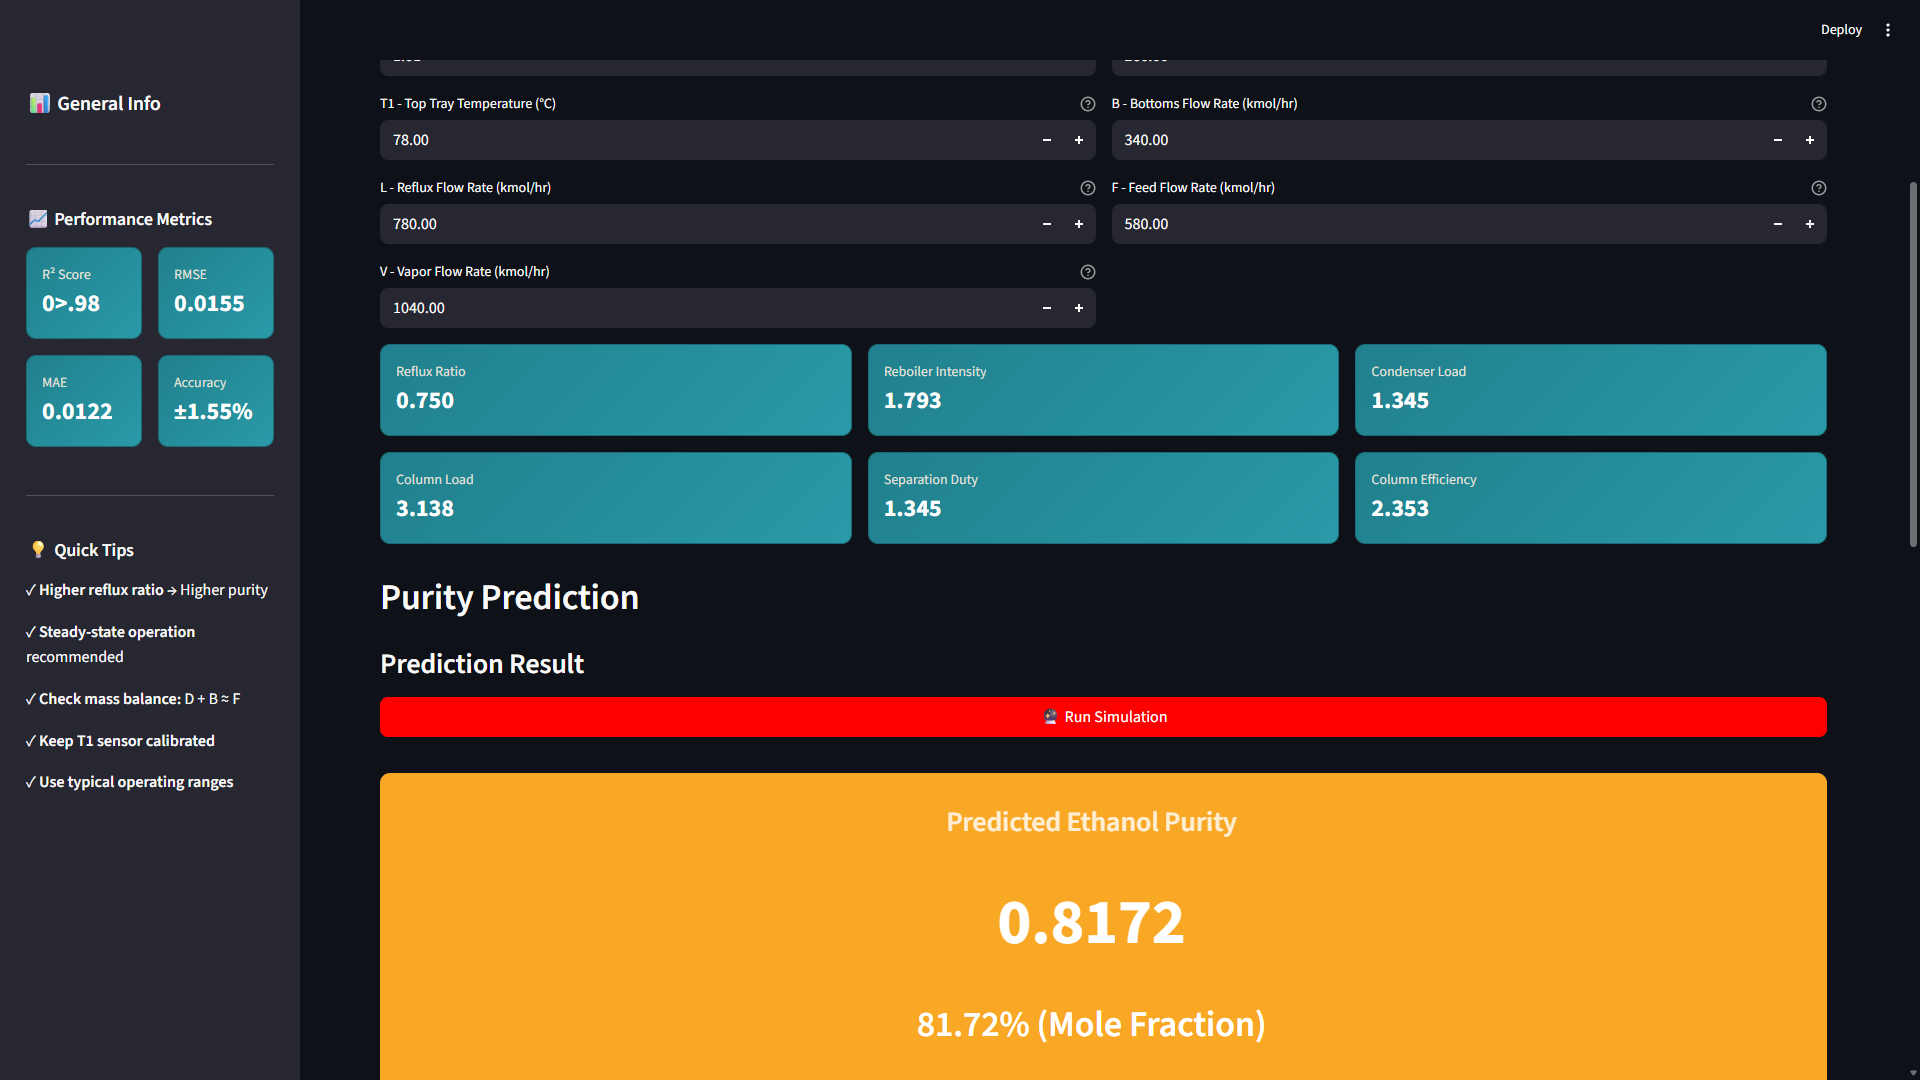
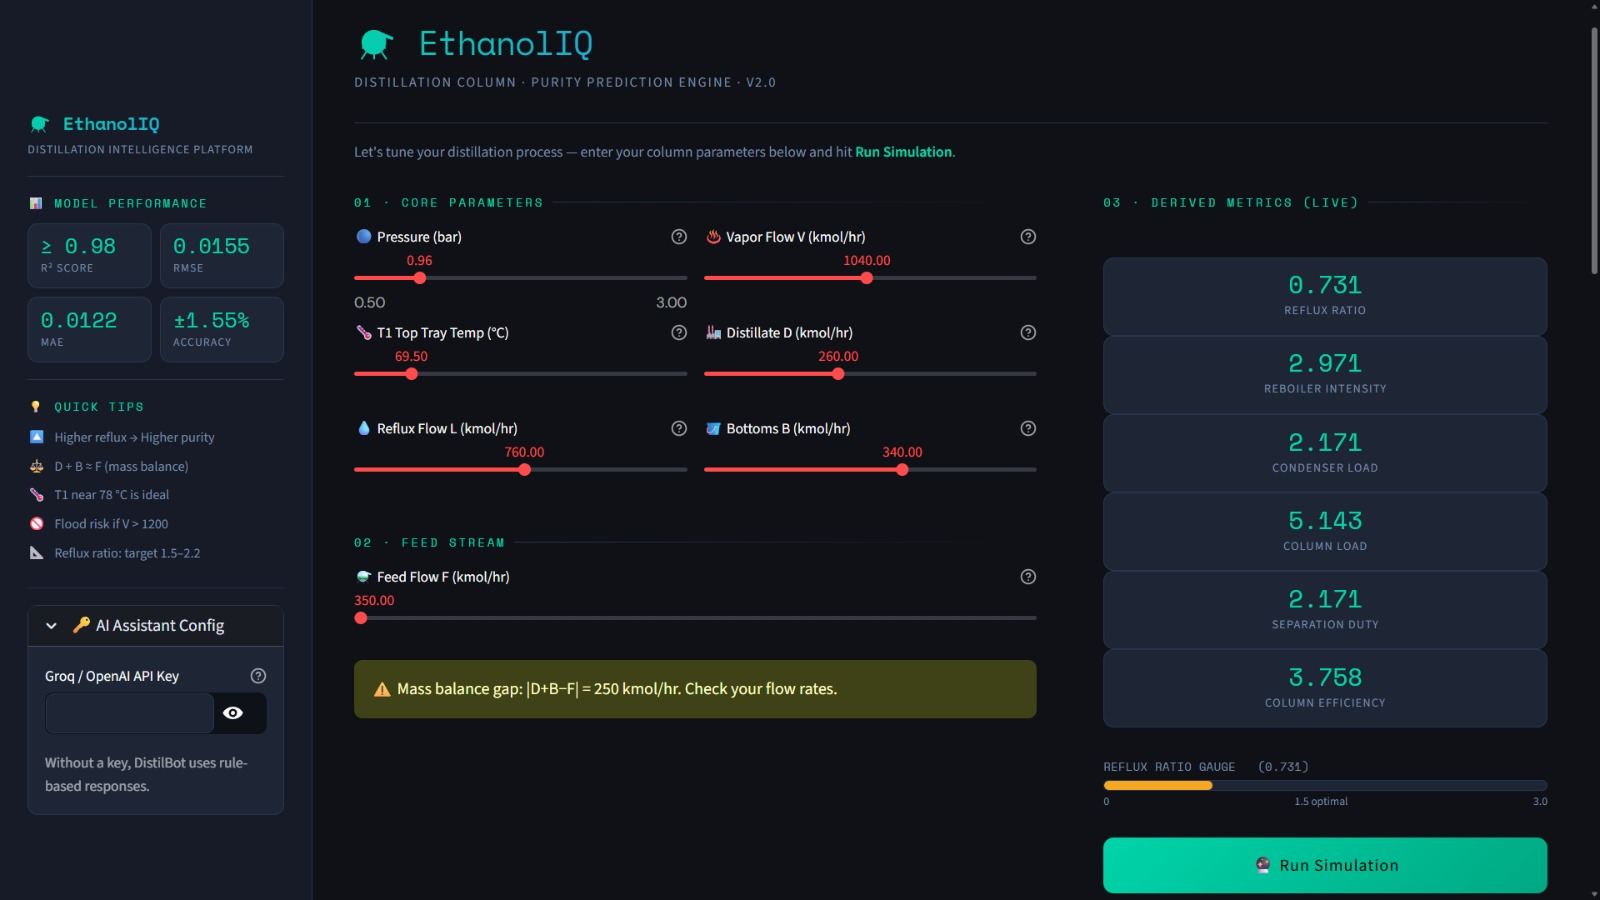
Refactor code structure for improved readability and maintainability

diff --git a/PortFolio Krishna/index.html b/PortFolio Krishna/index.html
@@ -471,7 +471,7 @@
                     aria-label="Visit Pexelicons on GitHub">
                     <img src="src/svg/github.svg" alt="github redirect button" />
                   </a>
-                  <a href="Past deployed link!" target="_blank" class="cta"
+                  <a href="https://distillation-column-prediction.streamlit.app/" target="_blank" class="cta"
                     aria-label="Visit stopscams Live">
                     <span>Live view</span>
                     <svg viewBox="0 0 13 10" height="10px" width="15px">
